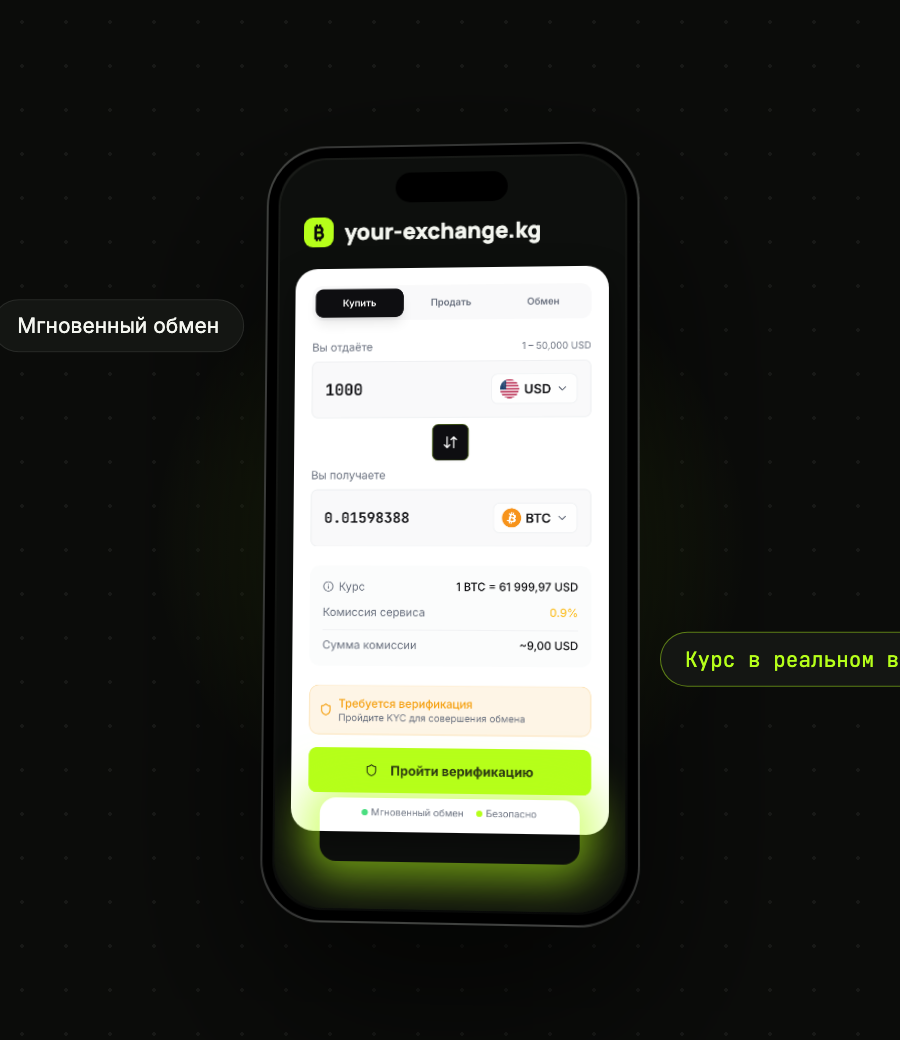
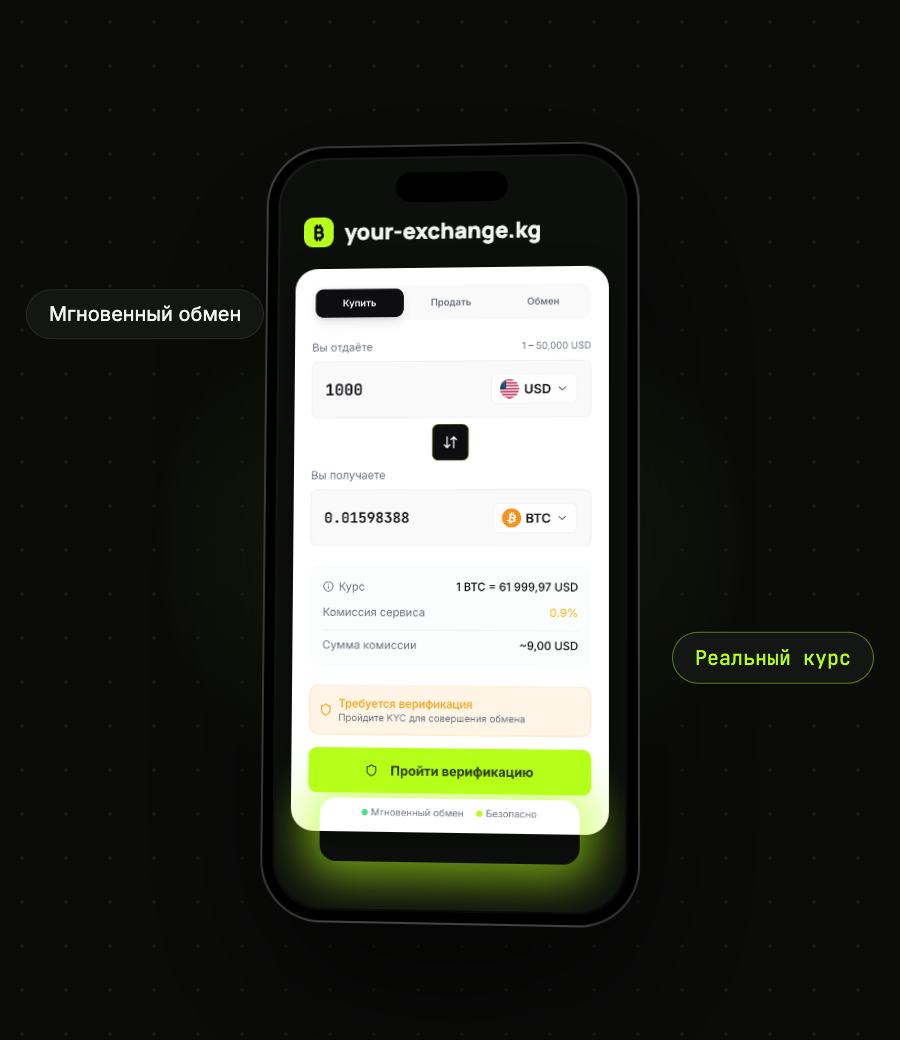
feat(landing): все 3 интерфейс-блока в едином тёмном стиле шоурила
- Телефон: чип «Реальный курс» больше не режется (якорь по краям кадра)
- Админка: тёмная секция + реальный скрин канбана в тёмном browser-frame
- Модули: реальный скрин маркетплейса в тёмном browser-frame (plain, без
  двойной рамки), ken-burns
Все три на СТАТИЧНЫХ скринах реального kiril (детерминированно, без ухода
на главную/белых кадров). RealBrowser обобщён (Img+ken-burns).

Changed region(s): [[0.7467, 0.6154, 1.0, 0.6769], [0.0, 0.2769, 0.28, 0.3385]]

diff --git a/src/components/Sections.tsx b/src/components/Sections.tsx
@@ -160,7 +160,7 @@ export const Modules = () => {
         <SectionHead eyebrow="Маркетплейс модулей" title="27 модулей в 8 категориях" lead="Выберите категорию — посмотрите, что входит. Модули включаются тумблером в админке." />
 
         <ScrollReveal variant="scale" className="mx-auto mt-10 max-w-2xl">
-          <VideoDemo demo="modules" />
+          <VideoDemo demo="modules" plain />
           <p className="mt-3 text-center text-sm text-muted-foreground">Активация модуля — в один клик, прямо из админки.</p>
         </ScrollReveal>
 
@@ -237,12 +237,13 @@ export const ClientShowcase = () => (
 
 // Демо админки оператора — у темы «оператор»
 export const OperatorShowcase = () => (
-  <section className="border-y border-border bg-secondary/30 py-16 sm:py-20 lg:py-24">
+  <section className="border-y border-white/10 bg-[#0B0C0A] py-16 sm:py-20 lg:py-24">
     <Showcase
       eyebrow="Вам как оператору"
       title="Заявки, выплаты и аудит — в одной админке"
       url="admin.your-exchange.kg"
       demo="orders"
+      dark
       plain
       reverse
       points={[